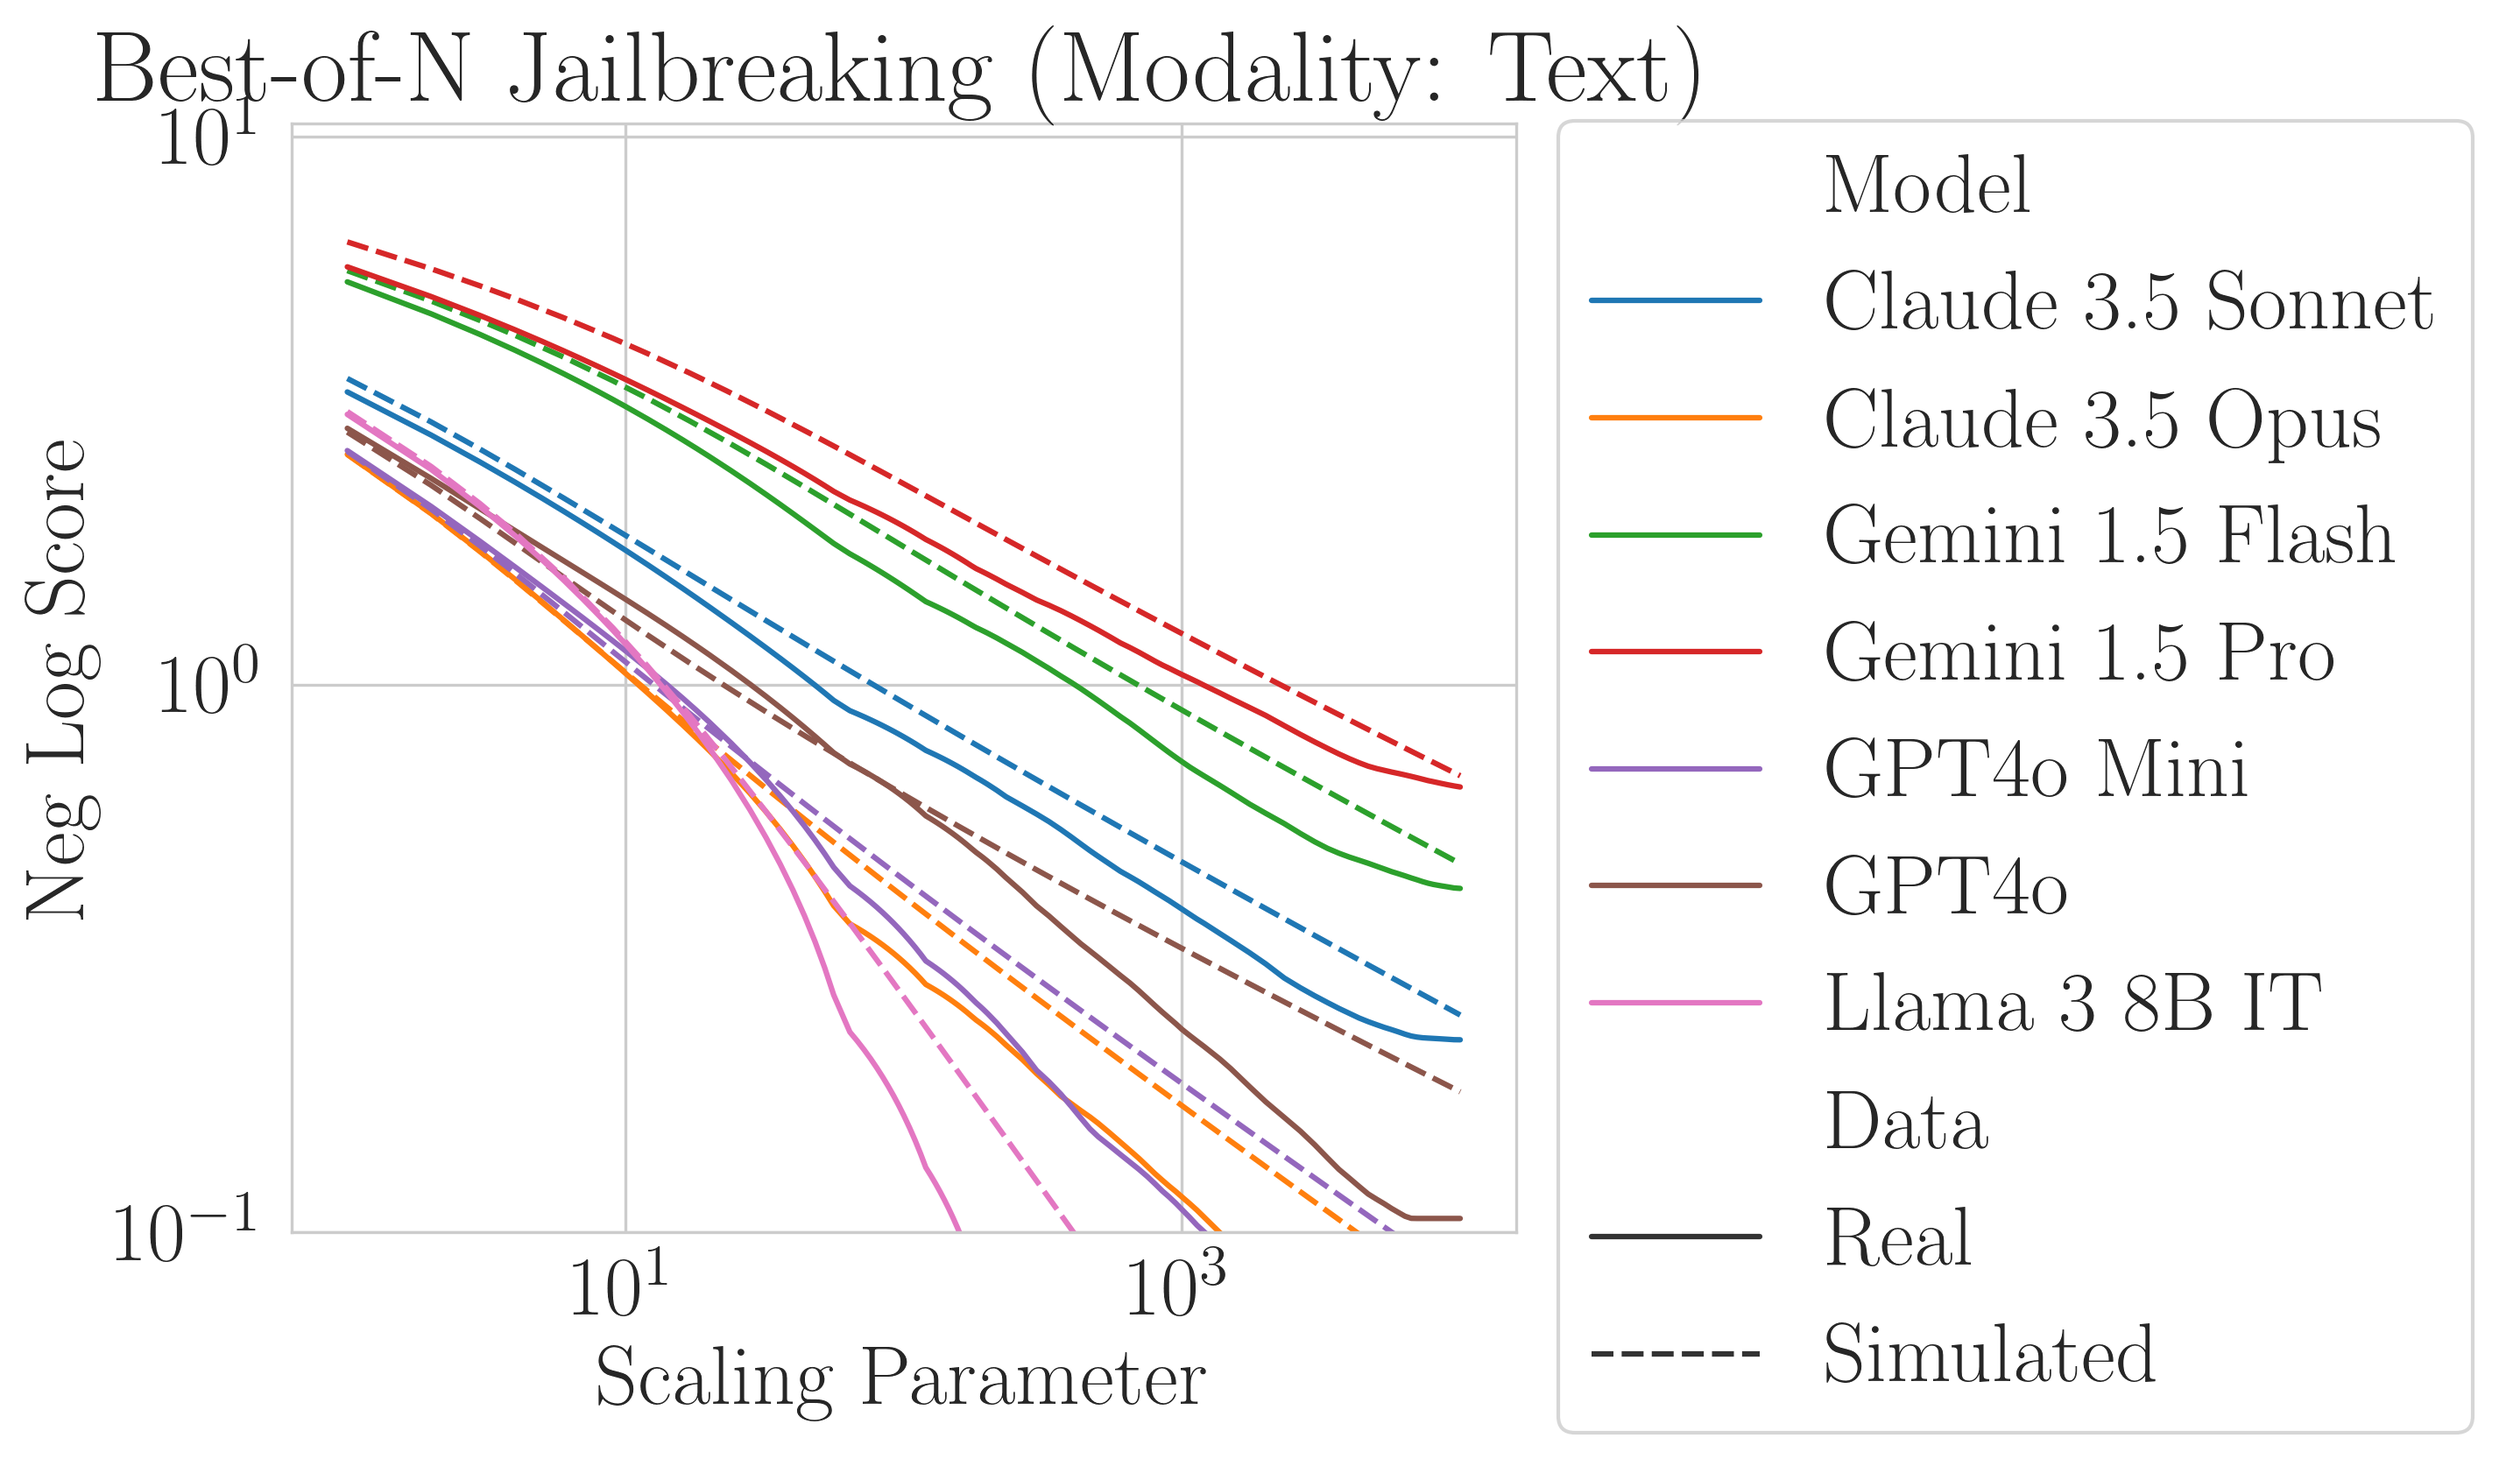
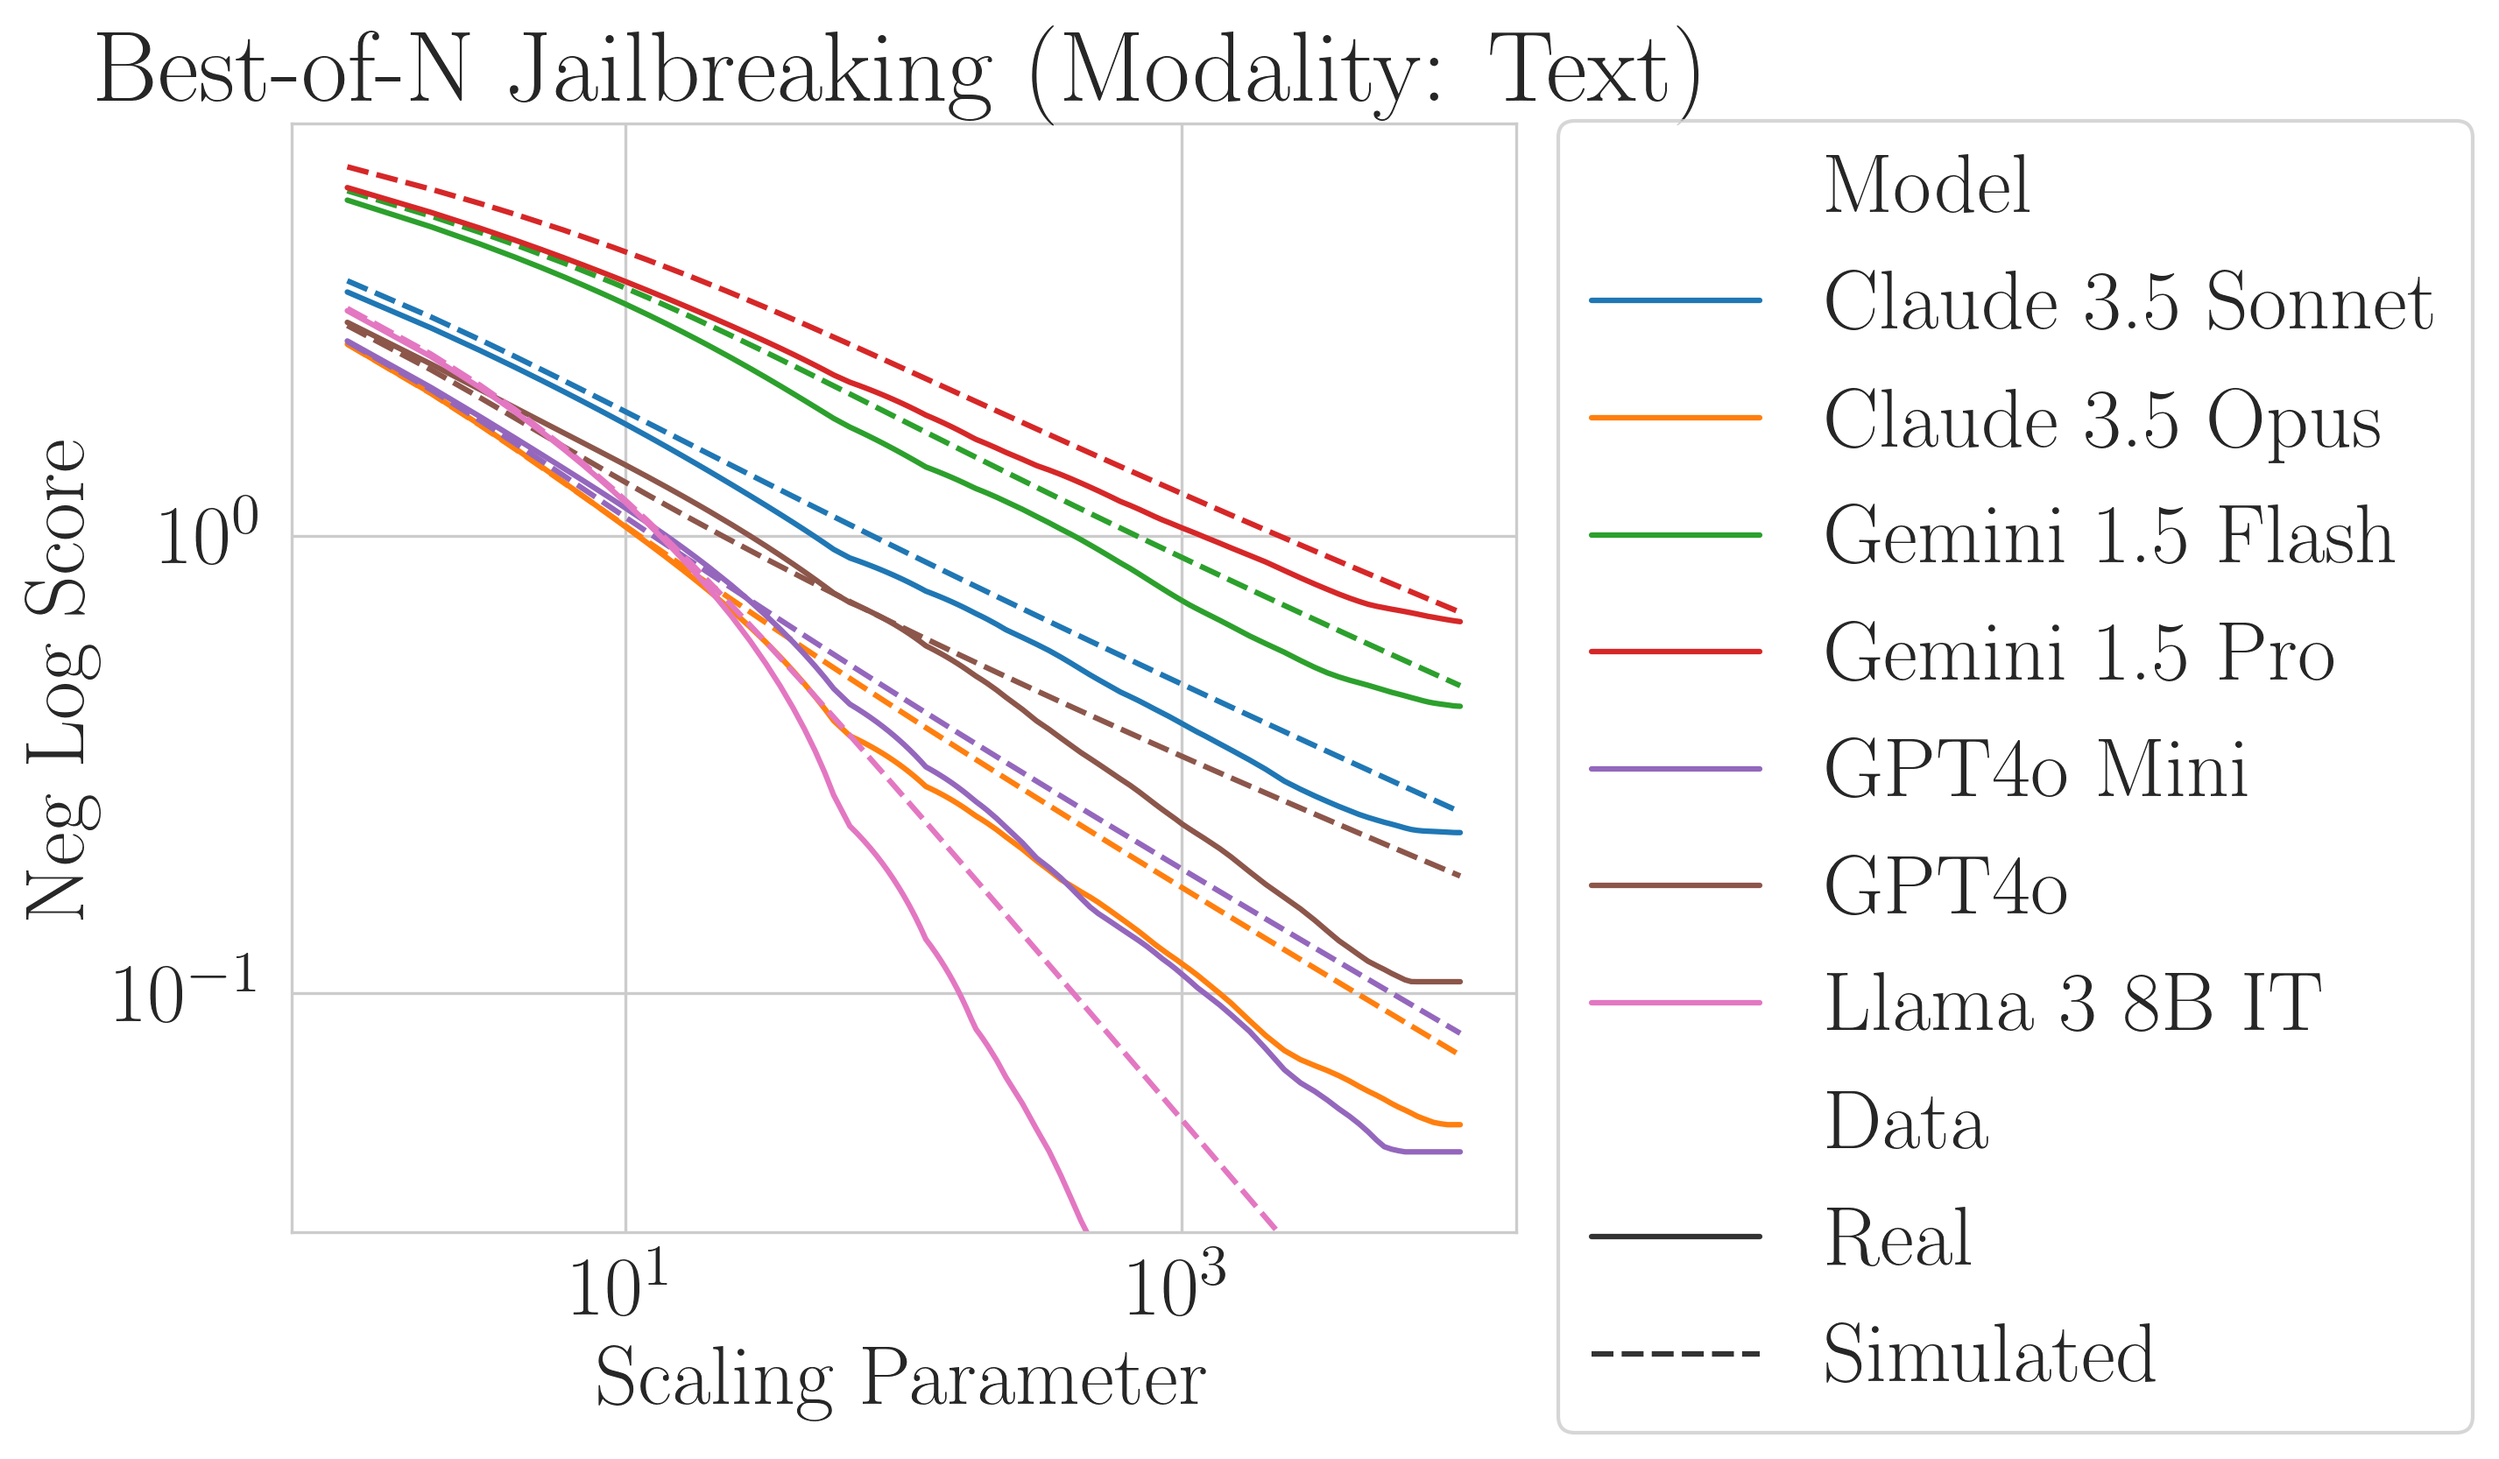
Correct yaxis min

diff --git a/notebooks/51_pass@1_compare_power_law_with_distributional_fit/51_pass@1_compare_power_law_with_distributional_fit.py b/notebooks/51_pass@1_compare_power_law_with_distributional_fit/51_pass@1_compare_power_law_with_distributional_fit.py
@@ -322,14 +322,14 @@ g.set(
     xlabel="Scaling Parameter",
     yscale="log",
     ylabel="Neg Log Score",
-    ylim=(1e-1, None),
+    ylim=(3e-2, 8e0),
 )
 sns.move_legend(g, "upper left", bbox_to_anchor=(1, 1.04))
 src.plot.save_plot_with_multiple_extensions(
     plot_dir=results_dir,
     plot_filename="bon_jailbreaking_y=neg_log_score_x=scaling_parameter_hue=model_style=real_or_syn_kumaraswamy_binomial",
 )
-plt.show()
+# plt.show()
 
 
 bon_jailbreaking_text_joint_power_law_and_kumaraswamy_binomial_distr_fit_df = pd.merge(
